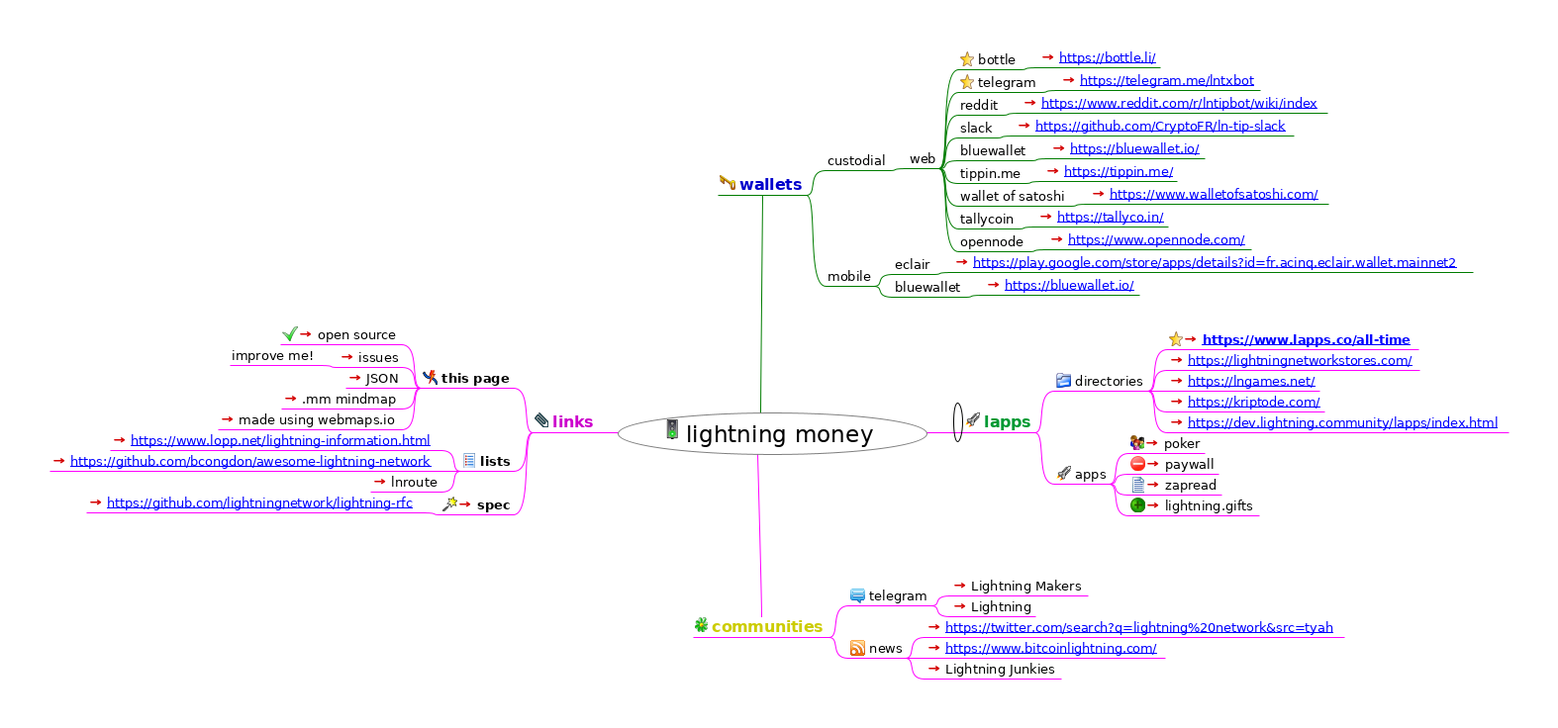
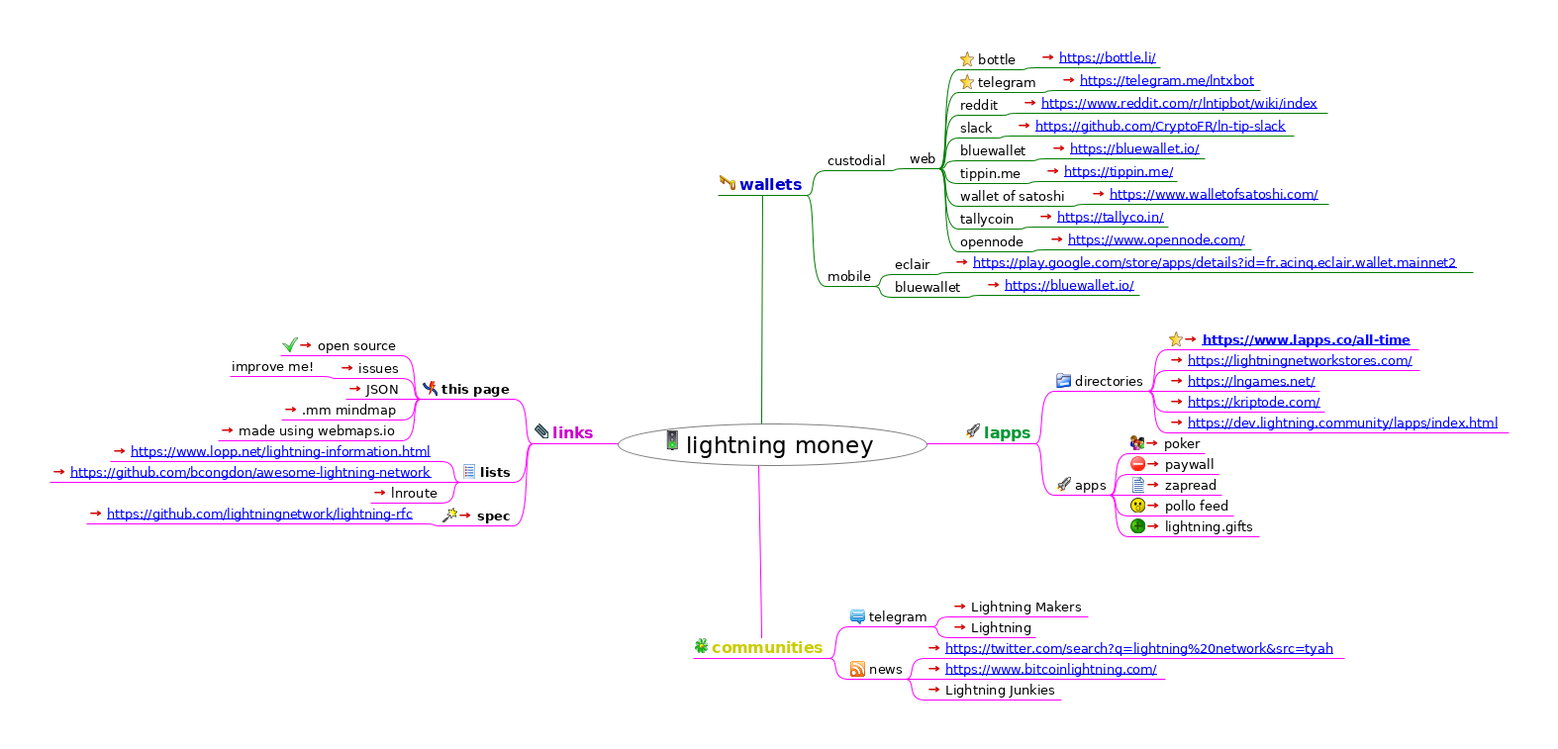
add pollo feed

diff --git a/index.html b/index.html
@@ -23,7 +23,7 @@
                    };
                };
           
-          --></script></head><body><h1>lightning money</h1><div style="width:96%;  padding:2%;  margin-bottom:10px;  border: 0px;  text-align:center;  vertical-align:center;"><img src="index.html_files/image.png" style="margin-bottom:10px; &#9;border: 0px; &#9;text-align:center; &#9;vertical-align:center;" alt="Imagemap" usemap="#fm_imagemap" /></div><map name="fm_imagemap" id="fm_imagemap"><area shape="rect" href="#FMID_1568754813FM" alt="lightning money" title="lightning money" coords="624,417,937,460" />
+          --></script></head><body><h1>lightning money</h1><div style="width:96%;  padding:2%;  margin-bottom:10px;  border: 0px;  text-align:center;  vertical-align:center;"><img src="index.html_files/image.png" style="margin-bottom:10px; &#9;border: 0px; &#9;text-align:center; &#9;vertical-align:center;" alt="Imagemap" usemap="#fm_imagemap" /></div><map name="fm_imagemap" id="fm_imagemap"><area shape="rect" href="#FMID_1568754813FM" alt="lightning money" title="lightning money" coords="624,428,937,471" />
 <area shape="rect" href="#FMID_403237537FM" alt="wallets" title="wallets" coords="725,177,815,197" />
 <area shape="rect" href="#FMID_713142011FM" alt="custodial" title="custodial" coords="834,154,898,172" />
 <area shape="rect" href="#FMID_1071283894FM" alt="web" title="web" coords="917,152,949,170" />
@@ -50,40 +50,41 @@
 <area shape="rect" href="https://play.google.com/store/apps/details?id=fr.acinq.eclair.wallet.mainnet2" alt="https://play.google.com/store/apps/detai ..." title="https://play.google.com/store/apps/detai ..." coords="962,257,1488,275" />
 <area shape="rect" href="#FMID_822394219FM" alt="bluewallet" title="bluewallet" coords="902,282,975,300" />
 <area shape="rect" href="https://bluewallet.io/" alt="https://bluewallet.io/" title="https://bluewallet.io/" coords="994,280,1151,298" />
-<area shape="rect" href="#FMID_1438249466FM" alt="lapps" title="lapps" coords="973,417,1046,437" />
+<area shape="rect" href="#FMID_1438249466FM" alt="lapps" title="lapps" coords="973,428,1046,448" />
 <area shape="rect" href="#FMID_1938254040FM" alt="directories" title="directories" coords="1065,377,1160,395" />
 <area shape="rect" href="https://www.lapps.co/all-time" alt="https://www.lapps.co/all-time " title="https://www.lapps.co/all-time " coords="1179,335,1433,353" />
 <area shape="rect" href="https://lightningnetworkstores.com/" alt="https://lightningnetworkstores.com/" title="https://lightningnetworkstores.com/" coords="1179,356,1434,374" />
 <area shape="rect" href="https://lngames.net/" alt="https://lngames.net/ " title="https://lngames.net/ " coords="1179,377,1333,395" />
 <area shape="rect" href="https://kriptode.com/" alt="https://kriptode.com/" title="https://kriptode.com/" coords="1179,398,1338,416" />
 <area shape="rect" href="https://dev.lightning.community/lapps/index.html" alt="https://dev.lightning.community/lapps/in ..." title="https://dev.lightning.community/lapps/in ..." coords="1179,419,1524,437" />
-<area shape="rect" href="#FMID_1371138197FM" alt="apps" title="apps" coords="1065,471,1121,489" />
+<area shape="rect" href="#FMID_1371138197FM" alt="apps" title="apps" coords="1065,482,1121,500" />
 <area shape="rect" href="https://lightning-poker.com/" alt="poker" title="poker" coords="1140,440,1217,458" />
 <area shape="rect" href="https://paywall.link/" alt="paywall" title="paywall" coords="1140,461,1231,479" />
 <area shape="rect" href="https://www.zapread.com/" alt="zapread" title="zapread" coords="1140,482,1234,500" />
-<area shape="rect" href="https://lightning.gifts/" alt="lightning.gifts" title="lightning.gifts" coords="1140,503,1272,521" />
-<area shape="rect" href="#FMID_1699377289FM" alt="communities" title="communities" coords="700,624,838,644" />
-<area shape="rect" href="#FMID_1812873111FM" alt="telegram" title="telegram" coords="857,594,941,612" />
-<area shape="rect" href="https://t.me/joinchat/EFJwOxEZmjqjTBEx2883Hw" alt="Lightning Makers" title="Lightning Makers" coords="960,584,1099,602" />
-<area shape="rect" href="https://t.me/lightning_network" alt="Lightning" title="Lightning" coords="960,605,1046,623" />
-<area shape="rect" href="#FMID_1050804376FM" alt="news" title="news" coords="857,647,915,665" />
-<area shape="rect" href="https://twitter.com/search?q=lightning%20network#FMID_1210018261FMamp;src=tyah" alt="https://twitter.com/search?q=lightning%2 ..." title="https://twitter.com/search?q=lightning%2 ..." coords="934,626,1358,644" />
-<area shape="rect" href="https://www.bitcoinlightning.com/" alt="https://www.bitcoinlightning.com/" title="https://www.bitcoinlightning.com/" coords="934,647,1177,665" />
-<area shape="rect" href="https://anchor.fm/lightning-junkies/" alt="Lightning Junkies" title="Lightning Junkies" coords="934,668,1072,686" />
-<area shape="rect" href="#FMID_728396892FM" alt="links" title="links" coords="538,417,604,437" />
-<area shape="rect" href="#FMID_1704672214FM" alt="this page" title="this page" coords="425,374,519,392" />
-<area shape="rect" href="https://github.com/solidpayorg/lightning.money/" alt="open source" title="open source" coords="283,330,406,348" />
-<area shape="rect" href="https://github.com/solidpayorg/lightning.money/issues" alt="issues" title="issues" coords="341,353,406,371" />
-<area shape="rect" href="#FMID_824388782FM" alt="improve me!" title="improve me!" coords="232,351,322,369" />
-<area shape="rect" href="index.json" alt="JSON" title="JSON" coords="349,374,406,392" />
-<area shape="rect" href="index.html" alt=".mm mindmap" title=".mm mindmap" coords="284,395,406,413" />
-<area shape="rect" href="https://webmaps.io/" alt="made using webmaps.io" title="made using webmaps.io" coords="220,416,406,434" />
-<area shape="rect" href="#FMID_1744026554FM" alt="lists" title="lists" coords="465,458,519,476" />
-<area shape="rect" href="https://www.lopp.net/lightning-information.html" alt="https://www.lopp.net/lightning-informati ..." title="https://www.lopp.net/lightning-informati ..." coords="111,437,446,455" />
-<area shape="rect" href="https://github.com/bcongdon/awesome-lightning-network" alt="https://github.com/bcongdon/awesome-ligh ..." title="https://github.com/bcongdon/awesome-ligh ..." coords="50,458,446,476" />
-<area shape="rect" href="https://lnroute.com/" alt="lnroute" title="lnroute" coords="374,479,446,497" />
-<area shape="rect" href="spec/index.html" alt="spec" title="spec" coords="445,502,519,520" />
-<area shape="rect" href="https://github.com/lightningnetwork/lightning-rfc" alt="https://github.com/lightningnetwork/ligh ..." title="https://github.com/lightningnetwork/ligh ..." coords="87,500,426,518" />
+<area shape="rect" href="https://pollofeed.com/" alt="pollo feed" title="pollo feed" coords="1140,503,1246,521" />
+<area shape="rect" href="https://lightning.gifts/" alt="lightning.gifts" title="lightning.gifts" coords="1140,524,1272,542" />
+<area shape="rect" href="#FMID_1699377289FM" alt="communities" title="communities" coords="700,645,838,665" />
+<area shape="rect" href="#FMID_1812873111FM" alt="telegram" title="telegram" coords="857,615,941,633" />
+<area shape="rect" href="https://t.me/joinchat/EFJwOxEZmjqjTBEx2883Hw" alt="Lightning Makers" title="Lightning Makers" coords="960,605,1099,623" />
+<area shape="rect" href="https://t.me/lightning_network" alt="Lightning" title="Lightning" coords="960,626,1046,644" />
+<area shape="rect" href="#FMID_1050804376FM" alt="news" title="news" coords="857,668,915,686" />
+<area shape="rect" href="https://twitter.com/search?q=lightning%20network#FMID_1210018261FMamp;src=tyah" alt="https://twitter.com/search?q=lightning%2 ..." title="https://twitter.com/search?q=lightning%2 ..." coords="934,647,1358,665" />
+<area shape="rect" href="https://www.bitcoinlightning.com/" alt="https://www.bitcoinlightning.com/" title="https://www.bitcoinlightning.com/" coords="934,668,1177,686" />
+<area shape="rect" href="https://anchor.fm/lightning-junkies/" alt="Lightning Junkies" title="Lightning Junkies" coords="934,689,1072,707" />
+<area shape="rect" href="#FMID_728396892FM" alt="links" title="links" coords="538,428,604,448" />
+<area shape="rect" href="#FMID_1704672214FM" alt="this page" title="this page" coords="425,385,519,403" />
+<area shape="rect" href="https://github.com/solidpayorg/lightning.money/" alt="open source" title="open source" coords="283,341,406,359" />
+<area shape="rect" href="https://github.com/solidpayorg/lightning.money/issues" alt="issues" title="issues" coords="341,364,406,382" />
+<area shape="rect" href="#FMID_824388782FM" alt="improve me!" title="improve me!" coords="232,362,322,380" />
+<area shape="rect" href="index.json" alt="JSON" title="JSON" coords="349,385,406,403" />
+<area shape="rect" href="index.html" alt=".mm mindmap" title=".mm mindmap" coords="284,406,406,424" />
+<area shape="rect" href="https://webmaps.io/" alt="made using webmaps.io" title="made using webmaps.io" coords="220,427,406,445" />
+<area shape="rect" href="#FMID_1744026554FM" alt="lists" title="lists" coords="465,469,519,487" />
+<area shape="rect" href="https://www.lopp.net/lightning-information.html" alt="https://www.lopp.net/lightning-informati ..." title="https://www.lopp.net/lightning-informati ..." coords="111,448,446,466" />
+<area shape="rect" href="https://github.com/bcongdon/awesome-lightning-network" alt="https://github.com/bcongdon/awesome-ligh ..." title="https://github.com/bcongdon/awesome-ligh ..." coords="50,469,446,487" />
+<area shape="rect" href="https://lnroute.com/" alt="lnroute" title="lnroute" coords="374,490,446,508" />
+<area shape="rect" href="spec/index.html" alt="spec" title="spec" coords="445,513,519,531" />
+<area shape="rect" href="https://github.com/lightningnetwork/lightning-rfc" alt="https://github.com/lightningnetwork/ligh ..." title="https://github.com/lightningnetwork/ligh ..." coords="87,511,426,529" />
 </map>
 
 <div class="node"><img src="index.html_files/hide.png" class="hideshow" alt="hide" onClick="toggle(&quot;N65543&quot;)" id="imgN65543" /><img src="index.html_files/icons/go.svg" alt="go" /> <a id="FMID_1568754813FM" /><div class="nodecontent" style="color:#000000;font-size:150%;">lightning money</div><div class="content" id="N65543"><div class="node"><img src="index.html_files/hide.png" class="hideshow" alt="hide" onClick="toggle(&quot;N66444&quot;)" id="imgN66444" /><img src="index.html_files/icons/password.svg" alt="password" /> <a id="FMID_403237537FM" /><div class="nodecontent" style="color:#0000cc;font-size:100%;font-weight:bold;">wallets</div><div class="content" id="N66444"><div class="node"><img src="index.html_files/hide.png" class="hideshow" alt="hide" onClick="toggle(&quot;N66487&quot;)" id="imgN66487" /><a id="FMID_713142011FM" /><div class="nodecontent" style="color:#000000;font-size:83%;">custodial</div><div class="content" id="N66487"><div class="node"><img src="index.html_files/hide.png" class="hideshow" alt="hide" onClick="toggle(&quot;N66522&quot;)" id="imgN66522" /><a id="FMID_1071283894FM" /><div class="nodecontent" style="color:#000000;font-size:83%;">web</div><div class="content" id="N66522"><div class="node"><img src="index.html_files/hide.png" class="hideshow" alt="hide" onClick="toggle(&quot;N66557&quot;)" id="imgN66557" /><img src="index.html_files/icons/bookmark.svg" alt="bookmark" /> <a id="FMID_432921303FM" /><div class="nodecontent" style="color:#000000;font-size:83%;">bottle</div><div class="content" id="N66557"><div class="node"><img src="index.html_files/leaf.png" class="hideshow" alt="leaf" /><a id="FMID_1723379621FM" /><div class="nodecontent" style="color:#000000;font-size:83%;"><a href="https://bottle.li/">
@@ -118,15 +119,15 @@
     <a http-equiv="content-type" content="text/html; charset=utf-8" href="https://kriptode.com/">https://kriptode.com/</a>
   </a> <a href="https://kriptode.com/"><img src="index.html_files/ilink.png" alt="User Link" style="border-width:0" /></a></div></div><div class="node"><img src="index.html_files/leaf.png" class="hideshow" alt="leaf" /><a id="FMID_356357336FM" /><div class="nodecontent" style="color:#000000;font-size:83%;"><a href="https://dev.lightning.community/lapps/index.html">
     <a http-equiv="content-type" content="text/html; charset=utf-8" href="https://dev.lightning.community/lapps/index.html">https://dev.lightning.community/lapps/index.html</a>
-  </a> <a href="https://dev.lightning.community/lapps/index.html"><img src="index.html_files/ilink.png" alt="User Link" style="border-width:0" /></a></div></div></div></div><div class="node"><img src="index.html_files/hide.png" class="hideshow" alt="hide" onClick="toggle(&quot;N67971&quot;)" id="imgN67971" /><img src="index.html_files/icons/launch.svg" alt="launch" /> <a id="FMID_1371138197FM" /><div class="nodecontent" style="color:#000000;font-size:83%;">apps</div><div class="content" id="N67971"><div class="node"><img src="index.html_files/leaf.png" class="hideshow" alt="leaf" /><img src="index.html_files/icons/group.svg" alt="group" /> <a id="FMID_491528674FM" /><div class="nodecontent" style="color:#000000;font-size:83%;"><a href="https://lightning-poker.com/">poker</a> <a href="https://lightning-poker.com/"><img src="index.html_files/ilink.png" alt="User Link" style="border-width:0" /></a></div></div><div class="node"><img src="index.html_files/leaf.png" class="hideshow" alt="leaf" /><img src="index.html_files/icons/closed.svg" alt="closed" /> <a id="FMID_678426153FM" /><div class="nodecontent" style="color:#000000;font-size:83%;"><a href="https://paywall.link/">paywall</a> <a href="https://paywall.link/"><img src="index.html_files/ilink.png" alt="User Link" style="border-width:0" /></a></div></div><div class="node"><img src="index.html_files/leaf.png" class="hideshow" alt="leaf" /><img src="index.html_files/icons/16x16-free-application-icons/png/16x16/Text.svg" alt="16x16-free-application-icons/png/16x16/Text" /> <a id="FMID_1250146990FM" /><div class="nodecontent" style="color:#000000;font-size:83%;"><a href="https://www.zapread.com/">zapread</a> <a href="https://www.zapread.com/"><img src="index.html_files/ilink.png" alt="User Link" style="border-width:0" /></a></div></div><div class="node"><img src="index.html_files/leaf.png" class="hideshow" alt="leaf" /><img src="index.html_files/icons/very_positive.svg" alt="very_positive" /> <a id="FMID_458425639FM" /><div class="nodecontent" style="color:#000000;font-size:83%;"><a href="https://lightning.gifts/">lightning.gifts</a> <a href="https://lightning.gifts/"><img src="index.html_files/ilink.png" alt="User Link" style="border-width:0" /></a></div></div></div></div></div></div><div class="node"><img src="index.html_files/hide.png" class="hideshow" alt="hide" onClick="toggle(&quot;N68181&quot;)" id="imgN68181" /><img src="index.html_files/icons/licq.svg" alt="licq" /> <a id="FMID_1699377289FM" /><div class="nodecontent" style="color:#cccc00;font-size:100%;font-weight:bold;">communities</div><div class="content" id="N68181"><div class="node"><img src="index.html_files/hide.png" class="hideshow" alt="hide" onClick="toggle(&quot;N68224&quot;)" id="imgN68224" /><img src="index.html_files/icons/16x16-free-application-icons/png/16x16/Comment.svg" alt="16x16-free-application-icons/png/16x16/Comment" /> <a id="FMID_1812873111FM" /><div class="nodecontent" style="color:#000000;font-size:83%;">telegram</div><div class="content" id="N68224"><div class="node"><img src="index.html_files/leaf.png" class="hideshow" alt="leaf" /><a id="FMID_31009961FM" /><div class="nodecontent" style="color:#000000;font-size:83%;"><a href="https://t.me/joinchat/EFJwOxEZmjqjTBEx2883Hw">Lightning Makers</a> <a href="https://t.me/joinchat/EFJwOxEZmjqjTBEx2883Hw"><img src="index.html_files/ilink.png" alt="User Link" style="border-width:0" /></a></div></div><div class="node"><img src="index.html_files/leaf.png" class="hideshow" alt="leaf" /><a id="FMID_95271556FM" /><div class="nodecontent" style="color:#000000;font-size:83%;"><a href="https://t.me/lightning_network">Lightning</a> <a href="https://t.me/lightning_network"><img src="index.html_files/ilink.png" alt="User Link" style="border-width:0" /></a></div></div></div></div><div class="node"><img src="index.html_files/hide.png" class="hideshow" alt="hide" onClick="toggle(&quot;N68339&quot;)" id="imgN68339" /><img src="index.html_files/icons/16x16-free-application-icons/png/16x16/Blog.svg" alt="16x16-free-application-icons/png/16x16/Blog" /> <a id="FMID_1050804376FM" /><div class="nodecontent" style="color:#000000;font-size:83%;">news</div><div class="content" id="N68339"><div class="node"><img src="index.html_files/leaf.png" class="hideshow" alt="leaf" /><a id="FMID_1210018261FM" /><div class="nodecontent" style="color:#000000;font-size:83%;"><a href="https://twitter.com/search?q=lightning%20network&amp;src=tyah">
+  </a> <a href="https://dev.lightning.community/lapps/index.html"><img src="index.html_files/ilink.png" alt="User Link" style="border-width:0" /></a></div></div></div></div><div class="node"><img src="index.html_files/hide.png" class="hideshow" alt="hide" onClick="toggle(&quot;N67971&quot;)" id="imgN67971" /><img src="index.html_files/icons/launch.svg" alt="launch" /> <a id="FMID_1371138197FM" /><div class="nodecontent" style="color:#000000;font-size:83%;">apps</div><div class="content" id="N67971"><div class="node"><img src="index.html_files/leaf.png" class="hideshow" alt="leaf" /><img src="index.html_files/icons/group.svg" alt="group" /> <a id="FMID_491528674FM" /><div class="nodecontent" style="color:#000000;font-size:83%;"><a href="https://lightning-poker.com/">poker</a> <a href="https://lightning-poker.com/"><img src="index.html_files/ilink.png" alt="User Link" style="border-width:0" /></a></div></div><div class="node"><img src="index.html_files/leaf.png" class="hideshow" alt="leaf" /><img src="index.html_files/icons/closed.svg" alt="closed" /> <a id="FMID_678426153FM" /><div class="nodecontent" style="color:#000000;font-size:83%;"><a href="https://paywall.link/">paywall</a> <a href="https://paywall.link/"><img src="index.html_files/ilink.png" alt="User Link" style="border-width:0" /></a></div></div><div class="node"><img src="index.html_files/leaf.png" class="hideshow" alt="leaf" /><img src="index.html_files/icons/16x16-free-application-icons/png/16x16/Text.svg" alt="16x16-free-application-icons/png/16x16/Text" /> <a id="FMID_1250146990FM" /><div class="nodecontent" style="color:#000000;font-size:83%;"><a href="https://www.zapread.com/">zapread</a> <a href="https://www.zapread.com/"><img src="index.html_files/ilink.png" alt="User Link" style="border-width:0" /></a></div></div><div class="node"><img src="index.html_files/leaf.png" class="hideshow" alt="leaf" /><img src="index.html_files/icons/smiley-oh.svg" alt="smiley-oh" /> <a id="FMID_180166478FM" /><div class="nodecontent" style="color:#000000;font-size:83%;"><a href="https://pollofeed.com/">pollo feed</a> <a href="https://pollofeed.com/"><img src="index.html_files/ilink.png" alt="User Link" style="border-width:0" /></a></div></div><div class="node"><img src="index.html_files/leaf.png" class="hideshow" alt="leaf" /><img src="index.html_files/icons/very_positive.svg" alt="very_positive" /> <a id="FMID_458425639FM" /><div class="nodecontent" style="color:#000000;font-size:83%;"><a href="https://lightning.gifts/">lightning.gifts</a> <a href="https://lightning.gifts/"><img src="index.html_files/ilink.png" alt="User Link" style="border-width:0" /></a></div></div></div></div></div></div><div class="node"><img src="index.html_files/hide.png" class="hideshow" alt="hide" onClick="toggle(&quot;N68223&quot;)" id="imgN68223" /><img src="index.html_files/icons/licq.svg" alt="licq" /> <a id="FMID_1699377289FM" /><div class="nodecontent" style="color:#cccc00;font-size:100%;font-weight:bold;">communities</div><div class="content" id="N68223"><div class="node"><img src="index.html_files/hide.png" class="hideshow" alt="hide" onClick="toggle(&quot;N68266&quot;)" id="imgN68266" /><img src="index.html_files/icons/16x16-free-application-icons/png/16x16/Comment.svg" alt="16x16-free-application-icons/png/16x16/Comment" /> <a id="FMID_1812873111FM" /><div class="nodecontent" style="color:#000000;font-size:83%;">telegram</div><div class="content" id="N68266"><div class="node"><img src="index.html_files/leaf.png" class="hideshow" alt="leaf" /><a id="FMID_31009961FM" /><div class="nodecontent" style="color:#000000;font-size:83%;"><a href="https://t.me/joinchat/EFJwOxEZmjqjTBEx2883Hw">Lightning Makers</a> <a href="https://t.me/joinchat/EFJwOxEZmjqjTBEx2883Hw"><img src="index.html_files/ilink.png" alt="User Link" style="border-width:0" /></a></div></div><div class="node"><img src="index.html_files/leaf.png" class="hideshow" alt="leaf" /><a id="FMID_95271556FM" /><div class="nodecontent" style="color:#000000;font-size:83%;"><a href="https://t.me/lightning_network">Lightning</a> <a href="https://t.me/lightning_network"><img src="index.html_files/ilink.png" alt="User Link" style="border-width:0" /></a></div></div></div></div><div class="node"><img src="index.html_files/hide.png" class="hideshow" alt="hide" onClick="toggle(&quot;N68381&quot;)" id="imgN68381" /><img src="index.html_files/icons/16x16-free-application-icons/png/16x16/Blog.svg" alt="16x16-free-application-icons/png/16x16/Blog" /> <a id="FMID_1050804376FM" /><div class="nodecontent" style="color:#000000;font-size:83%;">news</div><div class="content" id="N68381"><div class="node"><img src="index.html_files/leaf.png" class="hideshow" alt="leaf" /><a id="FMID_1210018261FM" /><div class="nodecontent" style="color:#000000;font-size:83%;"><a href="https://twitter.com/search?q=lightning%20network&amp;src=tyah">
     <a http-equiv="content-type" content="text/html; charset=utf-8" href="https://twitter.com/search?q=lightning%20network&amp;src=tyah">https://twitter.com/search?q=lightning%20network&amp;src=tyah</a>
   </a> <a href="https://twitter.com/search?q=lightning%20network&amp;src=tyah"><img src="index.html_files/ilink.png" alt="User Link" style="border-width:0" /></a></div></div><div class="node"><img src="index.html_files/leaf.png" class="hideshow" alt="leaf" /><a id="FMID_1919527951FM" /><div class="nodecontent" style="color:#000000;font-size:83%;"><a href="https://www.bitcoinlightning.com/">
     <a http-equiv="content-type" content="text/html; charset=utf-8" href="https://www.bitcoinlightning.com/">https://www.bitcoinlightning.com/</a>
-  </a> <a href="https://www.bitcoinlightning.com/"><img src="index.html_files/ilink.png" alt="User Link" style="border-width:0" /></a></div></div><div class="node"><img src="index.html_files/leaf.png" class="hideshow" alt="leaf" /><a id="FMID_35176243FM" /><div class="nodecontent" style="color:#000000;font-size:83%;"><a href="https://anchor.fm/lightning-junkies/">Lightning Junkies</a> <a href="https://anchor.fm/lightning-junkies/"><img src="index.html_files/ilink.png" alt="User Link" style="border-width:0" /></a></div></div></div></div></div></div><div class="node"><img src="index.html_files/hide.png" class="hideshow" alt="hide" onClick="toggle(&quot;N68528&quot;)" id="imgN68528" /><img src="index.html_files/icons/attach.svg" alt="attach" /> <a id="FMID_728396892FM" /><div class="nodecontent" style="color:#cc00cc;font-size:100%;font-weight:bold;">links</div><div class="content" id="N68528"><div class="node"><img src="index.html_files/hide.png" class="hideshow" alt="hide" onClick="toggle(&quot;N68571&quot;)" id="imgN68571" /><img src="index.html_files/icons/broken-line.svg" alt="broken-line" /> <a id="FMID_1704672214FM" /><div class="nodecontent" style="color:#000000;font-size:83%;font-weight:bold;">this page</div><div class="content" id="N68571"><div class="node"><img src="index.html_files/leaf.png" class="hideshow" alt="leaf" /><img src="index.html_files/icons/button_ok.svg" alt="button_ok" /> <a id="FMID_1211678675FM" /><div class="nodecontent" style="color:#000000;font-size:83%;"><a href="https://github.com/solidpayorg/lightning.money/">open source</a> <a href="https://github.com/solidpayorg/lightning.money/"><img src="index.html_files/ilink.png" alt="User Link" style="border-width:0" /></a></div></div><div class="node"><img src="index.html_files/hide.png" class="hideshow" alt="hide" onClick="toggle(&quot;N68653&quot;)" id="imgN68653" /><a id="FMID_1677347904FM" /><div class="nodecontent" style="color:#000000;font-size:83%;"><a href="https://github.com/solidpayorg/lightning.money/issues">issues</a> <a href="https://github.com/solidpayorg/lightning.money/issues"><img src="index.html_files/ilink.png" alt="User Link" style="border-width:0" /></a></div><div class="content" id="N68653"><div class="node"><img src="index.html_files/leaf.png" class="hideshow" alt="leaf" /><a id="FMID_824388782FM" /><div class="nodecontent" style="color:#000000;font-size:83%;">improve me!</div></div></div></div><div class="node"><img src="index.html_files/leaf.png" class="hideshow" alt="leaf" /><a id="FMID_903253757FM" /><div class="nodecontent" style="color:#000000;font-size:83%;"><a href="index.json">JSON</a> <a href="index.json"><img src="index.html_files/ilink.png" alt="User Link" style="border-width:0" /></a></div></div><div class="node"><img src="index.html_files/leaf.png" class="hideshow" alt="leaf" /><a id="FMID_963935095FM" /><div class="nodecontent" style="color:#000000;font-size:83%;"><a href="index.html">.mm mindmap</a> <a href="index.html"><img src="index.html_files/ilink.png" alt="User Link" style="border-width:0" /></a></div></div><div class="node"><img src="index.html_files/leaf.png" class="hideshow" alt="leaf" /><a id="FMID_1528568892FM" /><div class="nodecontent" style="color:#000000;font-size:83%;"><a href="https://webmaps.io/">made using webmaps.io</a> <a href="https://webmaps.io/"><img src="index.html_files/ilink.png" alt="User Link" style="border-width:0" /></a></div></div></div></div><div class="node"><img src="index.html_files/hide.png" class="hideshow" alt="hide" onClick="toggle(&quot;N68838&quot;)" id="imgN68838" /><img src="index.html_files/icons/list.svg" alt="list" /> <a id="FMID_1744026554FM" /><div class="nodecontent" style="color:#000000;font-size:83%;font-weight:bold;">lists</div><div class="content" id="N68838"><div class="node"><img src="index.html_files/leaf.png" class="hideshow" alt="leaf" /><a id="FMID_1897426799FM" /><div class="nodecontent" style="color:#000000;font-size:83%;"><a href="https://www.lopp.net/lightning-information.html">
+  </a> <a href="https://www.bitcoinlightning.com/"><img src="index.html_files/ilink.png" alt="User Link" style="border-width:0" /></a></div></div><div class="node"><img src="index.html_files/leaf.png" class="hideshow" alt="leaf" /><a id="FMID_35176243FM" /><div class="nodecontent" style="color:#000000;font-size:83%;"><a href="https://anchor.fm/lightning-junkies/">Lightning Junkies</a> <a href="https://anchor.fm/lightning-junkies/"><img src="index.html_files/ilink.png" alt="User Link" style="border-width:0" /></a></div></div></div></div></div></div><div class="node"><img src="index.html_files/hide.png" class="hideshow" alt="hide" onClick="toggle(&quot;N68570&quot;)" id="imgN68570" /><img src="index.html_files/icons/attach.svg" alt="attach" /> <a id="FMID_728396892FM" /><div class="nodecontent" style="color:#cc00cc;font-size:100%;font-weight:bold;">links</div><div class="content" id="N68570"><div class="node"><img src="index.html_files/hide.png" class="hideshow" alt="hide" onClick="toggle(&quot;N68613&quot;)" id="imgN68613" /><img src="index.html_files/icons/broken-line.svg" alt="broken-line" /> <a id="FMID_1704672214FM" /><div class="nodecontent" style="color:#000000;font-size:83%;font-weight:bold;">this page</div><div class="content" id="N68613"><div class="node"><img src="index.html_files/leaf.png" class="hideshow" alt="leaf" /><img src="index.html_files/icons/button_ok.svg" alt="button_ok" /> <a id="FMID_1211678675FM" /><div class="nodecontent" style="color:#000000;font-size:83%;"><a href="https://github.com/solidpayorg/lightning.money/">open source</a> <a href="https://github.com/solidpayorg/lightning.money/"><img src="index.html_files/ilink.png" alt="User Link" style="border-width:0" /></a></div></div><div class="node"><img src="index.html_files/hide.png" class="hideshow" alt="hide" onClick="toggle(&quot;N68695&quot;)" id="imgN68695" /><a id="FMID_1677347904FM" /><div class="nodecontent" style="color:#000000;font-size:83%;"><a href="https://github.com/solidpayorg/lightning.money/issues">issues</a> <a href="https://github.com/solidpayorg/lightning.money/issues"><img src="index.html_files/ilink.png" alt="User Link" style="border-width:0" /></a></div><div class="content" id="N68695"><div class="node"><img src="index.html_files/leaf.png" class="hideshow" alt="leaf" /><a id="FMID_824388782FM" /><div class="nodecontent" style="color:#000000;font-size:83%;">improve me!</div></div></div></div><div class="node"><img src="index.html_files/leaf.png" class="hideshow" alt="leaf" /><a id="FMID_903253757FM" /><div class="nodecontent" style="color:#000000;font-size:83%;"><a href="index.json">JSON</a> <a href="index.json"><img src="index.html_files/ilink.png" alt="User Link" style="border-width:0" /></a></div></div><div class="node"><img src="index.html_files/leaf.png" class="hideshow" alt="leaf" /><a id="FMID_963935095FM" /><div class="nodecontent" style="color:#000000;font-size:83%;"><a href="index.html">.mm mindmap</a> <a href="index.html"><img src="index.html_files/ilink.png" alt="User Link" style="border-width:0" /></a></div></div><div class="node"><img src="index.html_files/leaf.png" class="hideshow" alt="leaf" /><a id="FMID_1528568892FM" /><div class="nodecontent" style="color:#000000;font-size:83%;"><a href="https://webmaps.io/">made using webmaps.io</a> <a href="https://webmaps.io/"><img src="index.html_files/ilink.png" alt="User Link" style="border-width:0" /></a></div></div></div></div><div class="node"><img src="index.html_files/hide.png" class="hideshow" alt="hide" onClick="toggle(&quot;N68880&quot;)" id="imgN68880" /><img src="index.html_files/icons/list.svg" alt="list" /> <a id="FMID_1744026554FM" /><div class="nodecontent" style="color:#000000;font-size:83%;font-weight:bold;">lists</div><div class="content" id="N68880"><div class="node"><img src="index.html_files/leaf.png" class="hideshow" alt="leaf" /><a id="FMID_1897426799FM" /><div class="nodecontent" style="color:#000000;font-size:83%;"><a href="https://www.lopp.net/lightning-information.html">
     <a http-equiv="content-type" content="text/html; charset=utf-8" href="https://www.lopp.net/lightning-information.html">https://www.lopp.net/lightning-information.html</a>
   </a> <a href="https://www.lopp.net/lightning-information.html"><img src="index.html_files/ilink.png" alt="User Link" style="border-width:0" /></a></div></div><div class="node"><img src="index.html_files/leaf.png" class="hideshow" alt="leaf" /><a id="FMID_1244510370FM" /><div class="nodecontent" style="color:#000000;font-size:83%;"><a href="https://github.com/bcongdon/awesome-lightning-network">
     <a http-equiv="content-type" content="text/html; charset=utf-8" href="https://github.com/bcongdon/awesome-lightning-network">https://github.com/bcongdon/awesome-lightning-network</a>
-  </a> <a href="https://github.com/bcongdon/awesome-lightning-network"><img src="index.html_files/ilink.png" alt="User Link" style="border-width:0" /></a></div></div><div class="node"><img src="index.html_files/leaf.png" class="hideshow" alt="leaf" /><a id="FMID_1451851808FM" /><div class="nodecontent" style="color:#000000;font-size:83%;"><a href="https://lnroute.com/">lnroute</a> <a href="https://lnroute.com/"><img src="index.html_files/ilink.png" alt="User Link" style="border-width:0" /></a></div></div></div></div><div class="node"><img src="index.html_files/hide.png" class="hideshow" alt="hide" onClick="toggle(&quot;N69026&quot;)" id="imgN69026" /><img src="index.html_files/icons/wizard.svg" alt="wizard" /> <a id="FMID_1721082161FM" /><div class="nodecontent" style="color:#000000;font-size:83%;font-weight:bold;"><a href="spec/index.html">spec</a> <a href="spec/index.html"><img src="index.html_files/ilink.png" alt="User Link" style="border-width:0" /></a></div><div class="content" id="N69026"><div class="node"><img src="index.html_files/leaf.png" class="hideshow" alt="leaf" /><a id="FMID_1858353829FM" /><div class="nodecontent" style="color:#000000;font-size:83%;"><a href="https://github.com/lightningnetwork/lightning-rfc">
+  </a> <a href="https://github.com/bcongdon/awesome-lightning-network"><img src="index.html_files/ilink.png" alt="User Link" style="border-width:0" /></a></div></div><div class="node"><img src="index.html_files/leaf.png" class="hideshow" alt="leaf" /><a id="FMID_1451851808FM" /><div class="nodecontent" style="color:#000000;font-size:83%;"><a href="https://lnroute.com/">lnroute</a> <a href="https://lnroute.com/"><img src="index.html_files/ilink.png" alt="User Link" style="border-width:0" /></a></div></div></div></div><div class="node"><img src="index.html_files/hide.png" class="hideshow" alt="hide" onClick="toggle(&quot;N69068&quot;)" id="imgN69068" /><img src="index.html_files/icons/wizard.svg" alt="wizard" /> <a id="FMID_1721082161FM" /><div class="nodecontent" style="color:#000000;font-size:83%;font-weight:bold;"><a href="spec/index.html">spec</a> <a href="spec/index.html"><img src="index.html_files/ilink.png" alt="User Link" style="border-width:0" /></a></div><div class="content" id="N69068"><div class="node"><img src="index.html_files/leaf.png" class="hideshow" alt="leaf" /><a id="FMID_1858353829FM" /><div class="nodecontent" style="color:#000000;font-size:83%;"><a href="https://github.com/lightningnetwork/lightning-rfc">
     <a http-equiv="content-type" content="text/html; charset=utf-8" href="https://github.com/lightningnetwork/lightning-rfc">https://github.com/lightningnetwork/lightning-rfc</a>
   </a> <a href="https://github.com/lightningnetwork/lightning-rfc"><img src="index.html_files/ilink.png" alt="User Link" style="border-width:0" /></a></div></div></div></div></div></div></div></div>
 </body></html>

diff --git a/index.mm b/index.mm
@@ -315,6 +315,9 @@
 <node TEXT="zapread" ID="ID_1250146990" CREATED="1572157576036" MODIFIED="1572157683127" LINK="https://www.zapread.com/">
 <icon BUILTIN="16x16-free-application-icons/png/16x16/Text"/>
 </node>
+<node TEXT="pollo feed" ID="ID_180166478" CREATED="1572241212596" MODIFIED="1572241255492" LINK="https://pollofeed.com/">
+<icon BUILTIN="smiley-oh"/>
+</node>
 <node TEXT="lightning.gifts" ID="ID_458425639" CREATED="1572163425067" MODIFIED="1572163469182" LINK="https://lightning.gifts/">
 <icon BUILTIN="very_positive"/>
 </node>
